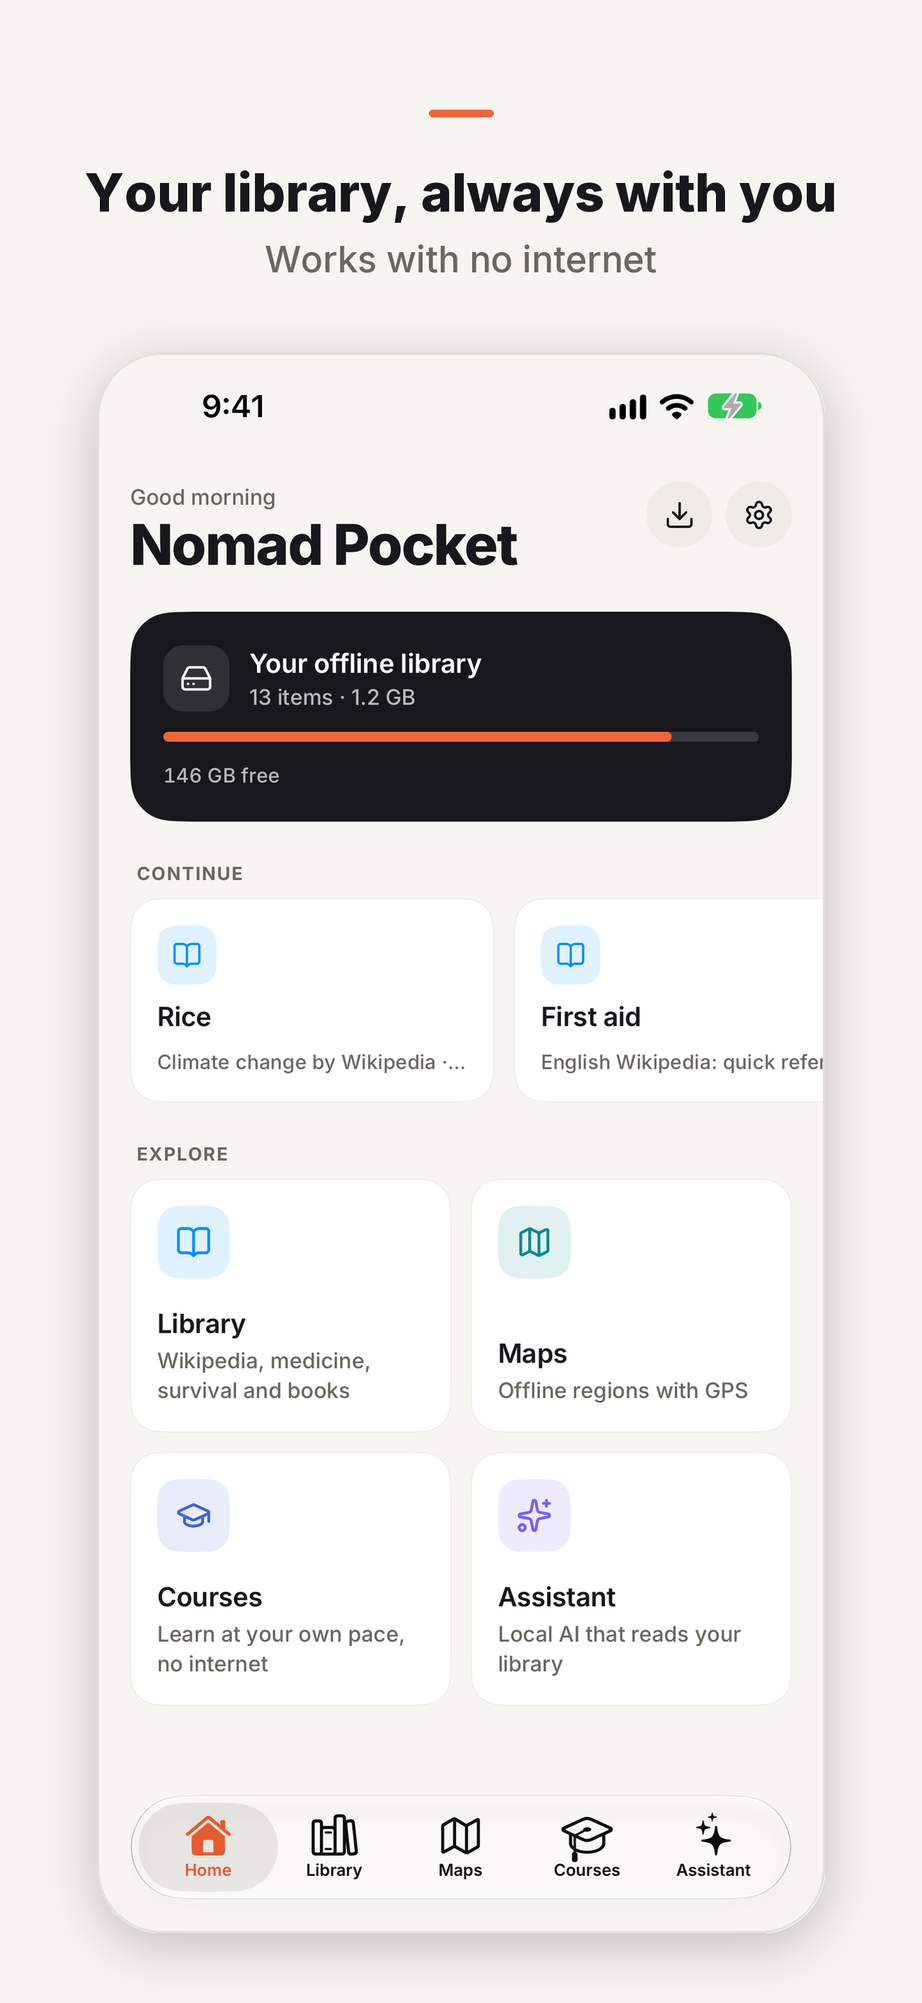
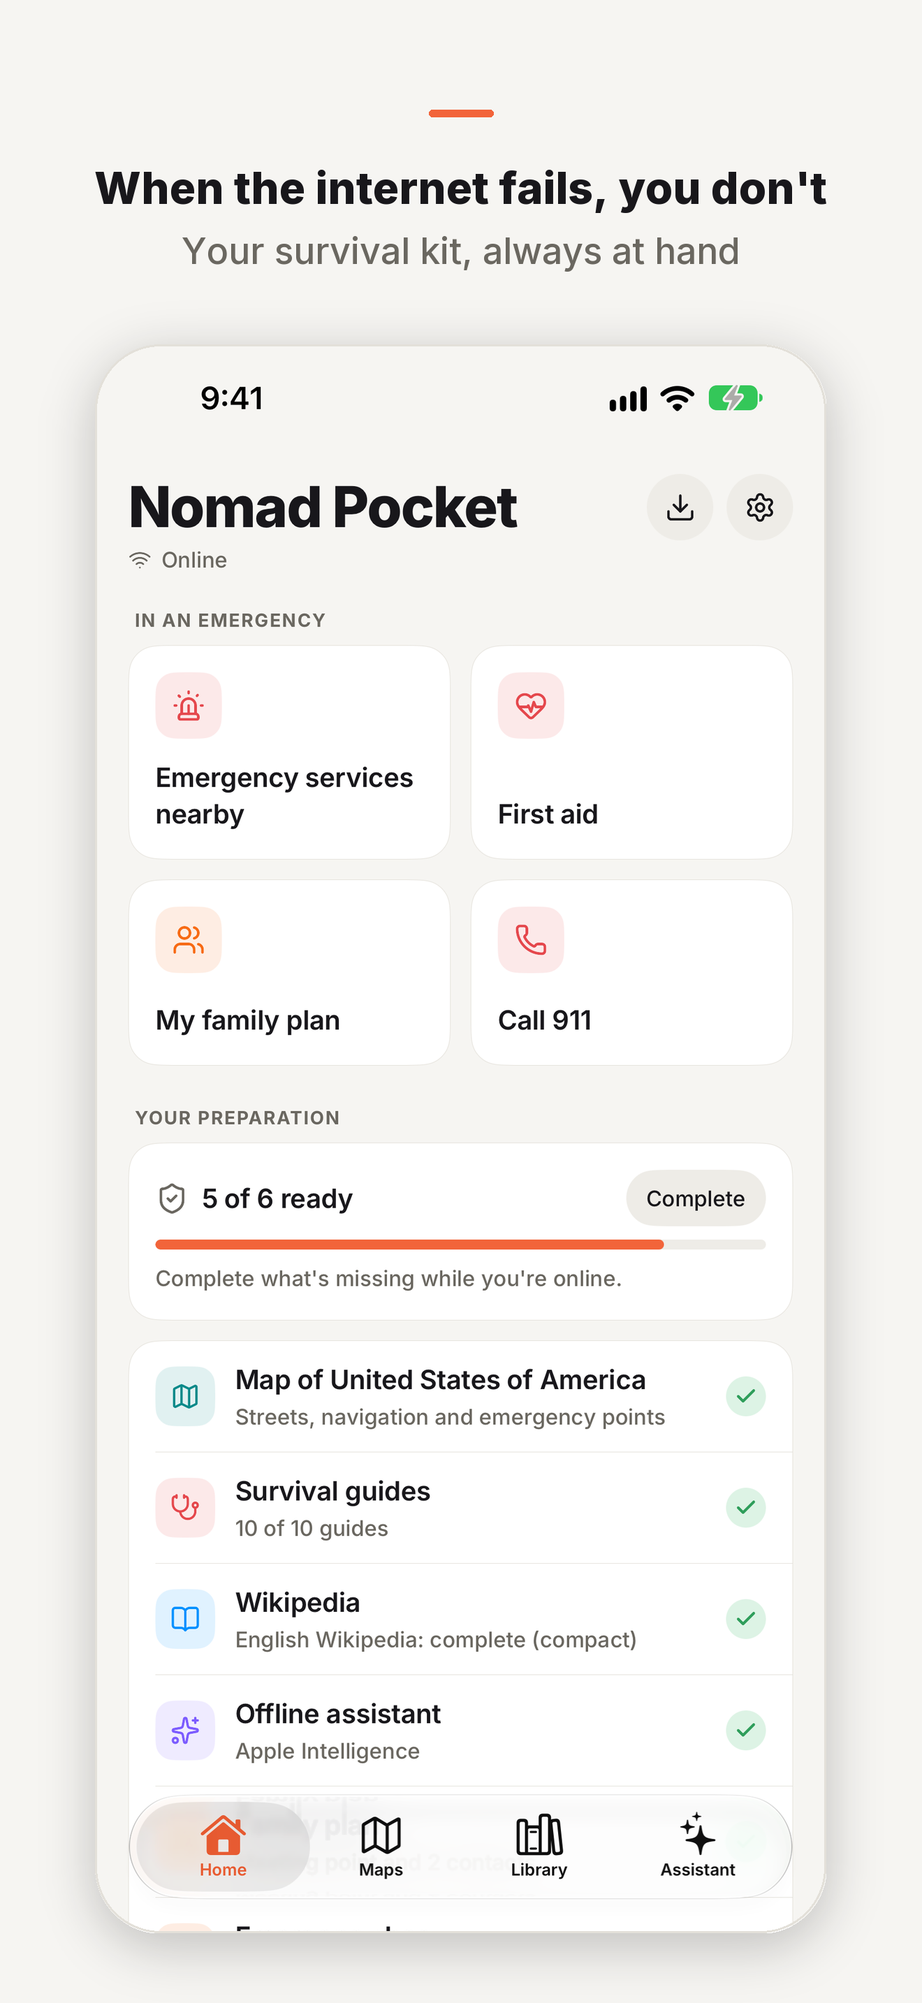
Store: 1.1.0 listing and new App Store screenshots
The owner approved a 1.1.0 listing aimed at the internet going down
(blackouts, cyberattacks, infrastructure failures), with a new name,
"Nomad Pocket: Kit Offline", and App Review notes that start with the
monetization (1.0.1 was rejected because review didn't understand it).

The screenshots predated the survival-kit redesign. New sets for iPhone
6.9" and iPad 13" in Spanish (Madrid) and English (New York), captions in
the same tone, and the OpenStreetMap credit under the map shots, since the
in-app credit fades after five seconds. The backlog keeps what the session
turned up that is still open: English retrieval in the assistant, a joke
in a first-aid answer, metric-only distances for US users.

diff --git a/scripts/store-screenshots.py b/scripts/store-screenshots.py
@@ -23,26 +23,34 @@ ACCENT = (242, 100, 58)
 # Matched against the capture's file name (first key contained in the name wins).
 CAPTIONS = {
     'es': {
-        'home': ('Tu biblioteca, siempre contigo', 'Funciona sin internet'),
-        'library': ('Wikipedia, medicina y supervivencia', 'Descarga lo que necesites'),
-        'dark': ('También en modo oscuro', 'Lectura cómoda de noche'),
-        'reader': ('Lee y busca sin conexión', 'Búsqueda de texto completo'),
-        'search': ('Encuentra cualquier cosa', 'Búsqueda en toda tu biblioteca'),
-        'map': ('Mapas offline con GPS', 'Recorta cualquier región del mundo'),
-        'assistant': ('IA local con fuentes', 'Tus preguntas no salen del móvil'),
-        'course': ('Aprende a tu ritmo', 'Cursos educativos sin conexión'),
+        'home': ('Si cae internet, tú sigues', 'Tu kit de supervivencia, siempre a mano'),
+        'emergency': ('El hospital más cercano, sin red', 'Farmacias, agua potable y refugios cerca'),
+        'route': ('Mapas que no se apagan', 'Rutas en coche, a pie y en bici sin conexión'),
+        'address': ('Encuentra cualquier calle', 'Hasta el número de portal, sin internet'),
+        'firstaid': ('Primeros auxilios al instante', 'Guías médicas y de supervivencia offline'),
+        'assistant': ('Una IA que no necesita internet', 'Responde con tu biblioteca y cita fuentes'),
+        'plan': ('Tu plan familiar, a mano', 'Puntos de encuentro, contactos y datos médicos'),
+        'library': ('Todo el conocimiento, sin red', 'Wikipedia, medicina, supervivencia y más'),
+        'kit': ('Listo en un minuto', 'Elige tu país y descarga tu kit'),
     },
     'en': {
-        'home': ('Your library, always with you', 'Works with no internet'),
-        'library': ('Wikipedia, medicine & survival', 'Download what you need'),
-        'dark': ('Dark mode included', 'Easy reading at night'),
-        'reader': ('Read and search offline', 'Full-text search'),
-        'search': ('Find anything', 'Search your whole library'),
-        'map': ('Offline maps with GPS', 'Cut any region of the world'),
-        'assistant': ('On-device AI with sources', 'Your questions never leave your phone'),
-        'course': ('Learn at your own pace', 'Educational courses, offline'),
+        'home': ('When the internet fails, you don\'t', 'Your survival kit, always at hand'),
+        'emergency': ('The nearest hospital, offline', 'Pharmacies, drinking water and shelters nearby'),
+        'route': ('Maps that never switch off', 'Offline routes by car, on foot and by bike'),
+        'address': ('Find any street', 'Down to the house number, no internet'),
+        'firstaid': ('First aid in seconds', 'Medical and survival guides, offline'),
+        'assistant': ('An AI that needs no internet', 'Answers from your library, with sources'),
+        'plan': ('Your family plan, at hand', 'Meeting points, contacts and medical details'),
+        'library': ('All the knowledge, no network', 'Wikipedia, medicine, survival and more'),
+        'kit': ('Ready in a minute', 'Pick your country and download your kit'),
     },
 }
+
+
+# Screens that show the map carry the OpenStreetMap credit under the phone: the in-app pill fades
+# after five seconds (MapCredit), and OSMF's guidelines accept the credit next to a map image.
+MAP_SHOTS = ('route', 'emergency')
+OSM_CREDIT = {'es': 'Mapa © colaboradores de OpenStreetMap', 'en': 'Map © OpenStreetMap contributors'}
 
 
 def caption_for(lang: str, name: str):
@@ -105,6 +113,9 @@ def compose(src: Path, dst: Path, lang: str, device: str):
     canvas.alpha_composite(shot, (x, y))
     border = ImageDraw.Draw(canvas)
     border.rounded_rectangle((x, y, x + shot.width - 1, y + shot.height - 1), radius, outline=(227, 224, 217), width=3)
+    if any(key in src.stem for key in MAP_SHOTS):
+        credit_font = ImageFont.truetype(str(FONTS / 'Inter_500Medium.ttf'), int(W * 0.022))
+        border.text((W // 2, (y + shot.height + H) // 2), OSM_CREDIT[lang], font=credit_font, fill=SECONDARY, anchor='mm')
 
     dst.parent.mkdir(parents=True, exist_ok=True)
     canvas.convert('RGB').save(dst, 'PNG', optimize=True)

diff --git a/docs/store/listing-1.1.0.md b/docs/store/listing-1.1.0.md
@@ -1,0 +1,182 @@
+# App Store listing — 1.1.0 (approved by the owner 2026-10-27)
+
+Draft of the App Store Connect texts for version 1.1.0, second pass 2026-10-27: the owner
+wants the listing aimed at the moment the internet goes down (blackouts, crises, infrastructure
+failures, cyberattacks), with a stronger hook, including a new name. Nothing here is in App Store
+Connect yet; the owner approved these texts on 2026-10-27 (docs/RELEASE.md). es-ES and es-MX share the Spanish texts,
+en-US and en-GB the English ones; keywords stay per locale (the Spain store indexes es-ES + en-GB, the
+US store en-US + es-MX, so pairs shouldn't repeat words, nor words already in the name or subtitle).
+
+Plan: 1.0.1 (build 3) waits for App Review's answer about monetization; once it is approved, a 1.1.0
+version is created and submitted with these texts, the latest build (22: build 21 plus the right
+neighbourhood on search results) and the new screenshots. The name and
+subtitle change with the 1.1.0 version (changing them now would touch the 1.0.1 under review).
+
+Limits: name 30, subtitle 30, promotional text 170, description 4000, keywords 100, what's new 4000.
+
+## Name and subtitle
+
+| Locale | Name | Subtitle |
+|---|---|---|
+| es-ES, es-MX | Nomad Pocket: Kit Offline | Supervivencia sin internet |
+| en-US, en-GB | Nomad Pocket: Offline Kit | Survival with no internet |
+
+Chosen by the owner 2026-10-27. "Nomad Pocket" stays whole: a bare "NOMAD" would read as the official
+Project N.O.M.A.D. app and collide with other "Nomad" brands on the store.
+
+## Promotional text
+
+**es:**
+
+Apagones, ciberataques, tormentas: cuando cae la red, tu móvil sigue sabiendo dónde está el hospital, cómo llegar y qué hacer. Prepáralo hoy, en un minuto.
+
+**en:**
+
+Blackouts, cyberattacks, storms: when the network fails, your phone still knows where the hospital is, how to get there and what to do. Get ready today.
+
+## Description
+
+**es:**
+
+```
+¿Y si mañana se cae internet?
+
+Un apagón, un ciberataque, una tormenta o un fallo informático masivo, y tu móvil se queda mudo: sin mapas, sin buscador, sin respuestas. Justo cuando más lo necesitas.
+
+Nomad Pocket es tu kit de supervivencia offline: sigue funcionando cuando todo lo demás falla. Prepáralo hoy en un minuto, mientras tienes conexión. Mañana, sin red, tu móvil seguirá sabiendo dónde estás, cómo llegar a donde necesitas, dónde están el hospital o el agua potable más cercanos y qué hacer ante una herida. Solo necesita batería.
+
+LISTO EN UN MINUTO
+• Elige tu país y descarga tu kit: una propuesta a la medida de tu país y del espacio de tu teléfono
+• Déjalo descargando con wifi; desde ese momento, todo funciona sin conexión
+• Inicio te dice lo preparado que estás y lo que te falta, para completarlo mientras aún hay red
+
+CUANDO LLEGA LA EMERGENCIA
+• Hospitales, farmacias, desfibriladores, policía, bomberos, agua potable y refugios a tu alrededor, por distancia y dirección, con un toque para que te guíe
+• Llama al número de emergencias y comparte tu posición exacta (coordenadas y UTM) por mensaje
+• Primeros auxilios a un toque desde Inicio
+• Plan familiar: puntos de encuentro, contactos y datos médicos de cada uno, también en PDF para imprimir
+• Mochila de emergencia a la medida de tu hogar (agua, comida, días) con avisos de caducidad
+
+MAPAS QUE NO SE APAGAN
+• Tu país entero en el móvil: cada calle, camino y edificio
+• Rutas en coche, a pie y en bici sin conexión, con una vista de navegación que te sigue
+• Busca cualquier calle, número de portal o lugar sin internet
+• Brújula, coordenadas y UTM, lugares guardados
+• Casi todos los países del mundo, y un mapa del mundo incluido desde el primer segundo
+
+TODO EL CONOCIMIENTO, SIN RED
+• Wikipedia entera o los artículos esenciales, según tu espacio
+• Más de 90 colecciones: medicina y primeros auxilios, supervivencia, agua y alimentos, agricultura, reparaciones… y miles más del catálogo de Kiwix
+• Búsqueda de texto completo, marcadores y modo oscuro para leer de noche
+• 14 cursos para aprender lo que haga falta
+
+UNA IA QUE NO NECESITA INTERNET
+• Pregúntale «¿cómo potabilizo agua?» en mitad de la nada: responde con tu biblioteca y te enseña las fuentes
+• Funciona en tu teléfono, con Apple Intelligence o con un modelo abierto que descargas
+• Dicta tus preguntas; tu voz se procesa en el propio dispositivo
+
+TUYA Y DE NADIE MÁS
+Sin cuentas, sin anuncios, sin compras y sin rastreo. Gratis. No recogemos ningún dato: tu plan, tus contactos, tu ubicación y tus preguntas no salen de tu móvil. Nomad Pocket no depende de ningún servidor propio, así que no hay nada que pueda caerse.
+
+Código abierto (GPL-3.0), inspirado en Project N.O.M.A.D. Datos de OpenStreetMap, Wikipedia, Kiwix y Protomaps; Nomad Pocket no está afiliada a estos proyectos.
+
+La IA puede equivocarse y la información médica no sustituye a un profesional. En una emergencia, llama siempre a los servicios de emergencia si puedes.
+```
+
+**en:**
+
+```
+What if the internet goes down tomorrow?
+
+A blackout, a cyberattack, a storm or a massive IT failure, and your phone goes silent: no maps, no search, no answers. Right when you need them most.
+
+Nomad Pocket is your offline survival kit: it keeps working when everything else fails. Set it up today in a minute, while you're online. Tomorrow, with no network, your phone still knows where you are, how to get where you need to go, where the nearest hospital or drinking water is, and what to do about a wound. All it needs is battery.
+
+READY IN A MINUTE
+• Pick your country and download your kit: one proposal sized for your country and your phone's storage
+• Leave it on Wi-Fi; from then on, everything works offline
+• Home tells you how prepared you are and what's missing, so you can finish while the network is still up
+
+WHEN THE EMERGENCY COMES
+• Hospitals, pharmacies, defibrillators, police, fire stations, drinking water and shelters around you, by distance and direction, one tap to be guided there
+• Call the emergency number and share your exact position (coordinates and UTM) by message
+• First aid one tap from Home
+• Family plan: meeting points, contacts and everyone's medical details, also as a printable PDF
+• Emergency bag sized to your household (water, food, days) with expiry reminders
+
+MAPS THAT DON'T SWITCH OFF
+• Your whole country on your phone: every street, path and building
+• Offline routes by car, on foot and by bike, with a navigation view that follows you
+• Search any street, house number or place with no internet
+• Compass, coordinates and UTM, saved places
+• Almost every country in the world, plus a world map built in from the first second
+
+ALL THE KNOWLEDGE, NO NETWORK
+• The whole of Wikipedia or the essential articles, to fit your storage
+• 90+ collections: medicine and first aid, survival, water and food, farming, repairs… plus thousands more from the Kiwix catalog
+• Full-text search, bookmarks and dark mode for reading at night
+• 14 courses to learn whatever you need
+
+AN AI THAT DOESN'T NEED THE INTERNET
+• Ask "how do I make water safe to drink?" in the middle of nowhere: it answers from your library and shows its sources
+• Runs on your phone, with Apple Intelligence or an open model you download
+• Dictate your questions; your voice is processed on the device itself
+
+YOURS AND NOBODY ELSE'S
+No accounts, no ads, no purchases, no tracking. Free. We collect no data: your plan, your contacts, your location and your questions never leave your phone. Nomad Pocket doesn't depend on any server of its own, so there's nothing to go down.
+
+Open source (GPL-3.0), inspired by Project N.O.M.A.D. Data from OpenStreetMap, Wikipedia, Kiwix and Protomaps; Nomad Pocket is not affiliated with these projects.
+
+The AI can make mistakes and medical information is no substitute for a professional. In an emergency, always call the emergency services if you can.
+```
+
+## Keywords
+
+| Locale | Keywords |
+|---|---|
+| es-ES | apagón,crisis,ciberataque,prepper,primeros auxilios,hospital,rutas,gps,mochila,catástrofe,refugio |
+| es-MX | sismo,terremoto,huracán,desastre,botiquín,navegación,brújula,enciclopedia,inundación,agua,sos |
+| en-US | blackout,prepper,emergency,disaster,first aid,cyberattack,crisis,gps,maps,hurricane,sos,bugout |
+| en-GB | power cut,outage,earthquake,flood,medical,hospital,navigation,compass,encyclopedia,shelter,bushcraft |
+
+## What's new in 1.1.0 (shown to people who have 1.0.1)
+
+**es:**
+
+```
+Nomad Pocket se convierte en tu kit para cuando se caiga internet.
+
+• Elige tu país y prepara tu kit en un minuto, a la medida de tu teléfono
+• Tu país entero en el mapa, con rutas en coche, a pie y en bici sin conexión y una vista de navegación que te sigue
+• Busca calles, números de portal y lugares sin internet
+• Emergencias: hospitales, farmacias, agua potable y refugios a tu alrededor, y un botón para llamar y compartir tu posición
+• Plan familiar en PDF y mochila de emergencia con avisos de caducidad
+• Un asistente más conversacional, con dictado por voz en el dispositivo
+• Un mapa del mundo incluido desde el primer momento y descargas mucho más rápidas
+```
+
+**en:**
+
+```
+Nomad Pocket becomes your kit for when the internet goes down.
+
+• Pick your country and set up your kit in a minute, sized for your phone
+• Your whole country on the map, with offline routes by car, on foot and by bike and a navigation view that follows you
+• Search streets, house numbers and places with no internet
+• Emergency: hospitals, pharmacies, drinking water and shelters around you, plus a button to call and share your position
+• A family plan as a PDF and an emergency bag with expiry reminders
+• A more conversational assistant, with on-device voice dictation
+• A world map built in from the start, and much faster downloads
+```
+
+## App Review notes
+
+```
+Nomad Pocket is completely free: no in-app purchases, no subscriptions, no ads, no accounts and no paid content. It has no server of its own and makes no money; it is an open source project (GPL-3.0, https://github.com/franlindebl/nomad-pocket). All content is free, openly licensed public data downloaded from its original public servers: Wikipedia and other archives from Kiwix and its mirrors, OpenStreetMap maps and routing packages built from OpenStreetMap and published on the project's GitHub Releases, and optional open AI models from Hugging Face.
+
+How to review: no sign-in is needed. On first launch, pick a country (preselected from the device region) and the app proposes a kit sized for the free space; downloading it takes a few minutes on Wi-Fi (a small country such as Andorra downloads in seconds). After that, everything works in airplane mode: the map with routes and search, Emergency (nearby hospitals, pharmacies, water…), the library reader, the AI assistant and Preparedness.
+
+Permissions: location (while in use) shows the user on the offline map and sorts emergency points by distance. Microphone and speech recognition are used only when the user taps the dictate button in the assistant; recognition runs on the device (requiresOnDeviceRecognition) and nothing is stored or sent. Notifications are local reminders for expiry dates in the emergency bag checklist. The app never accesses the photo library (the purpose string is there because a bundled library references the Photos framework).
+
+The AI assistant runs on the device (Apple Intelligence when available, otherwise a downloadable open model through llama.cpp); nothing is sent to any server. Medical content shows a "not medical advice" notice.
+```

diff --git a/docs/PROGRESS.md b/docs/PROGRESS.md
@@ -56,7 +56,8 @@ on 2026-10-25 from an "internet goes down" checklist; follow-ups are at the end.
 
 A. **After the pre-release audit** (2026-10-26). Deferred on purpose, **re-check in ~2 days, with the
    country-coverage work**:
-   - Regenerate the store screenshots (DOCS-PUBLIC-3 / LEGAL-14); the map ones must show the OSM credit.
+   - ~~Regenerate the store screenshots (DOCS-PUBLIC-3 / LEGAL-14)~~ done 2026-10-27 for 1.1.0 (OSM credit
+     under the map shots; `docs/RELEASE.md`, Screenshots).
    - OSS-9: obsolete PNGs in the repo.
    - The git history rewrite that removes the owner's old location examples (pending a quiet window).
      **Then tag the store builds** (`v1.1.0-12` for build 12, and every later build: GPL section 6).
@@ -176,6 +177,21 @@ U. **UX redesign and country packages** (`docs/UX_SURVIVAL_PLAN.md`, `docs/COUNT
    guidance and the hub to the Emergencias sheet (both landed on main in parallel).
 
 
+- **Seen while making the 1.1.0 store screenshots** (2026-10-27, iOS 27 simulators with the Spain kit in
+  Madrid and the US Northeast kit in New York; build 21). Fixed in c03c0cc / c7cf754: wrong neighbourhood
+  on search rows, Home's first aid opening English PDFs for Spanish users, the assistant's greeting,
+  Spanish retrieval ("potabilizo"), empty image boxes in nopic archives. Still open:
+  - **Assistant retrieval in English** (en-US, English Wikipedia complete (compact) 14.4 GB + 10 guides,
+    Apple Intelligence, before c7cf754): "What are the signs of hypothermia and what should I do?" cited
+    "Una cepa de Salmonella…" and said the library had nothing; "How do I start a fire when everything is
+    wet?" cited a Billboard Year-End chart; "How do I make water safe to drink without boiling it?" found
+    nothing. **Still on build 22** (c7cf754's title lookup, same simulator): the water question gets "I
+    couldn't find this in your library" and a cloth-strainer tip. Fix before 1.1.0 reaches English users.
+  - Once (iPad, Spanish) a burn first-aid answer added a joke about burning yourself with coffee.
+  - Distances are metric only (`lib/format.ts`, guidance): an en-US user in New York sees "3.1 km" and
+    "10 m"; the US (and the UK for road distances) expect miles and feet/yards. English copy also uses
+    British words ("torch", "health centre") for US users.
+
 ## Known issues / limitations
 
 - Map search: house numbers and far-away POIs come from the country package's side files
@@ -237,6 +253,25 @@ U. **UX redesign and country packages** (`docs/UX_SURVIVAL_PLAN.md`, `docs/COUNT
 Build gotchas moved to `docs/DEVELOPMENT.md`.
 
 ## Log
+
+### 2026-10-27 — Store: 1.1.0 listing approved, new screenshots
+
+App Store Connect showed 1.0.1 (build 3) rejected since 2026-10-24 (App Review didn't understand the
+monetization; the owner replied in the Resolution Center). Plan agreed with the owner: wait for that answer
+(fastest path to production), then submit 1.1.0 with the latest build. Meanwhile:
+- **Listing** (`docs/store/listing-1.1.0.md`), approved by the owner: aimed at the internet going down
+  (blackouts, cyberattacks, infrastructure failures). New name "Nomad Pocket: Kit Offline" / "Offline Kit",
+  subtitle "Supervivencia sin internet" / "Survival with no internet"; promotional text, description,
+  keywords per locale, what's new and App Review notes that start with the monetization (free, no
+  purchases, ads, accounts or server of its own). No real events named, no third-party trademarks in
+  keywords. "Pocket" stays in the name (a bare "NOMAD" would read as the official Project N.O.M.A.D. app).
+- **Screenshots** regenerated (backlog A): iPhone 6.9" es/en (8 each) and iPad 13" es/en (7 each), the
+  Spanish ones in Madrid, the English ones in New York; captions in the same crisis tone
+  (`scripts/store-screenshots.py`), OSM credit under the map shots. Recipe in `docs/RELEASE.md`.
+- **E2E on build 21**: full suite 39/40 then 40/40 (map-15 lost a tap on "Ir a estas coordenadas", passed
+  alone), iPad tour 1/1 (a first run caught the reader before its page painted; passed on a rerun).
+- What the screenshots turned up went to the backlog; the neighbourhood, first-aid, greeting, Spanish
+  retrieval and empty-box items were fixed by another session in c03c0cc / c7cf754 (build 22).
 
 ### 2026-10-27 — Release: 1.1.0 build 22 to TestFlight
 

diff --git a/docs/RELEASE.md b/docs/RELEASE.md
@@ -139,10 +139,17 @@ testing so far.
 Raw simulator captures go to `docs/store/screenshots/<lang>/<iphone|ipad>/NN-name.png`
 (gitignored). `python3 scripts/store-screenshots.py` adds the headline (captions in the
 script, es + en) and writes `docs/store/marketing/<lang>/<device>/` at App Store sizes:
-iPhone 1320×2868, iPad 2064×2752. Current set: home, library, reader, map, assistant,
-courses, reader dark, search. The map screenshot must show the OSM credit (it fades after about
-5 s: capture right after the map appears); the current set predates that and needs regenerating
-(PROGRESS backlog).
+iPhone 1320×2868 (iPhone 17 Pro Max simulator), iPad 2064×2752 (iPad Pro 13-inch).
+
+Current set (2026-10-27, for 1.1.0; texts in `docs/store/listing-1.1.0.md`): home, emergency, route,
+first aid, assistant, family plan, library, kit (iPhone only). Spanish shots use the Spain kit in Madrid,
+English ones the US Northeast kit in New York, each on a simulator in that language and region, with
+fictional family-plan data (555 numbers in English). Screens with the map (`route`, `emergency`) get
+"© OpenStreetMap contributors" under the phone from the script: the in-app credit fades after five
+seconds. How they were made: a store Release build for the simulator with the real catalogs (no
+`EXPO_PUBLIC_*_MANIFEST_URL`), the kit downloaded once per language and cloned into the iPad's app
+container (`cp -c`), `simctl status_bar` at 9:41 (the route shots at the time that matches their
+arrival), `axe` taps and pasted text (`simctl pbcopy` + Cmd-V: `axe type` can't type accents).
 
 ## Privacy / support site
 
